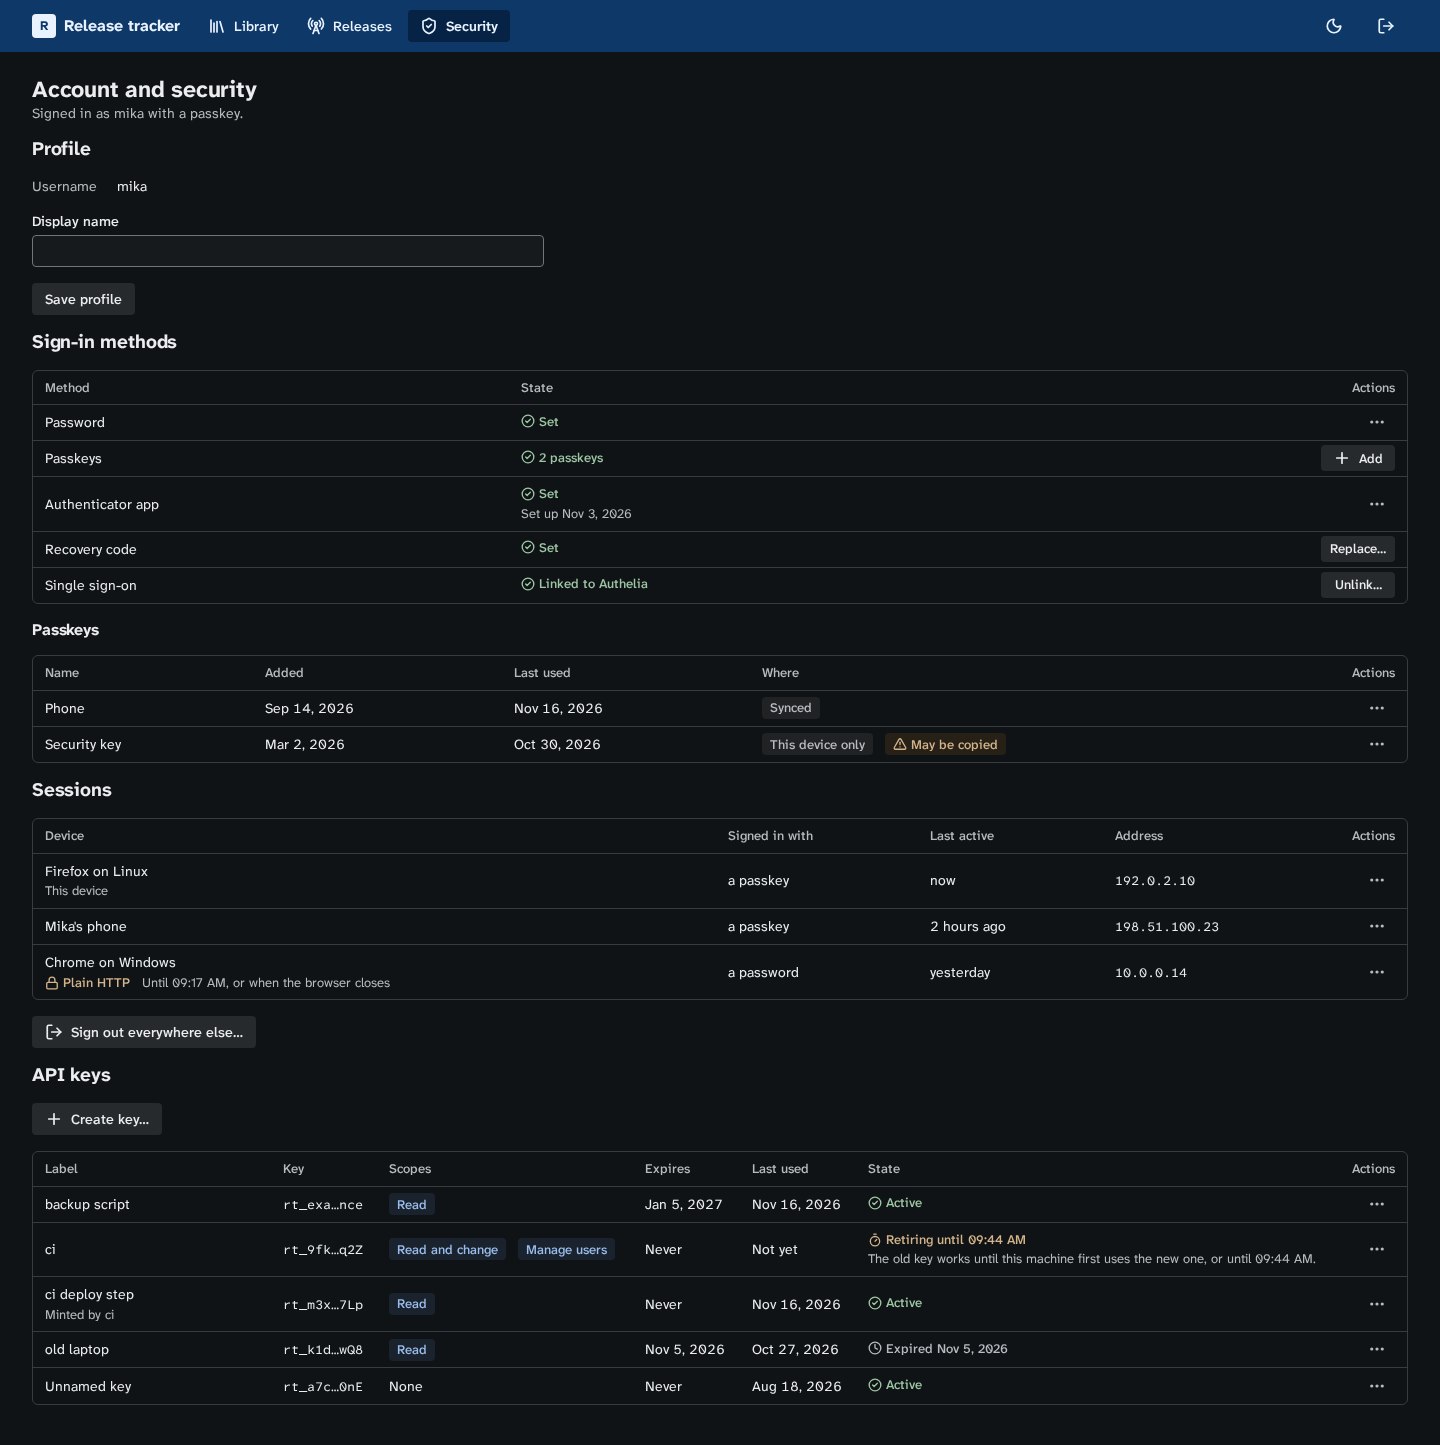
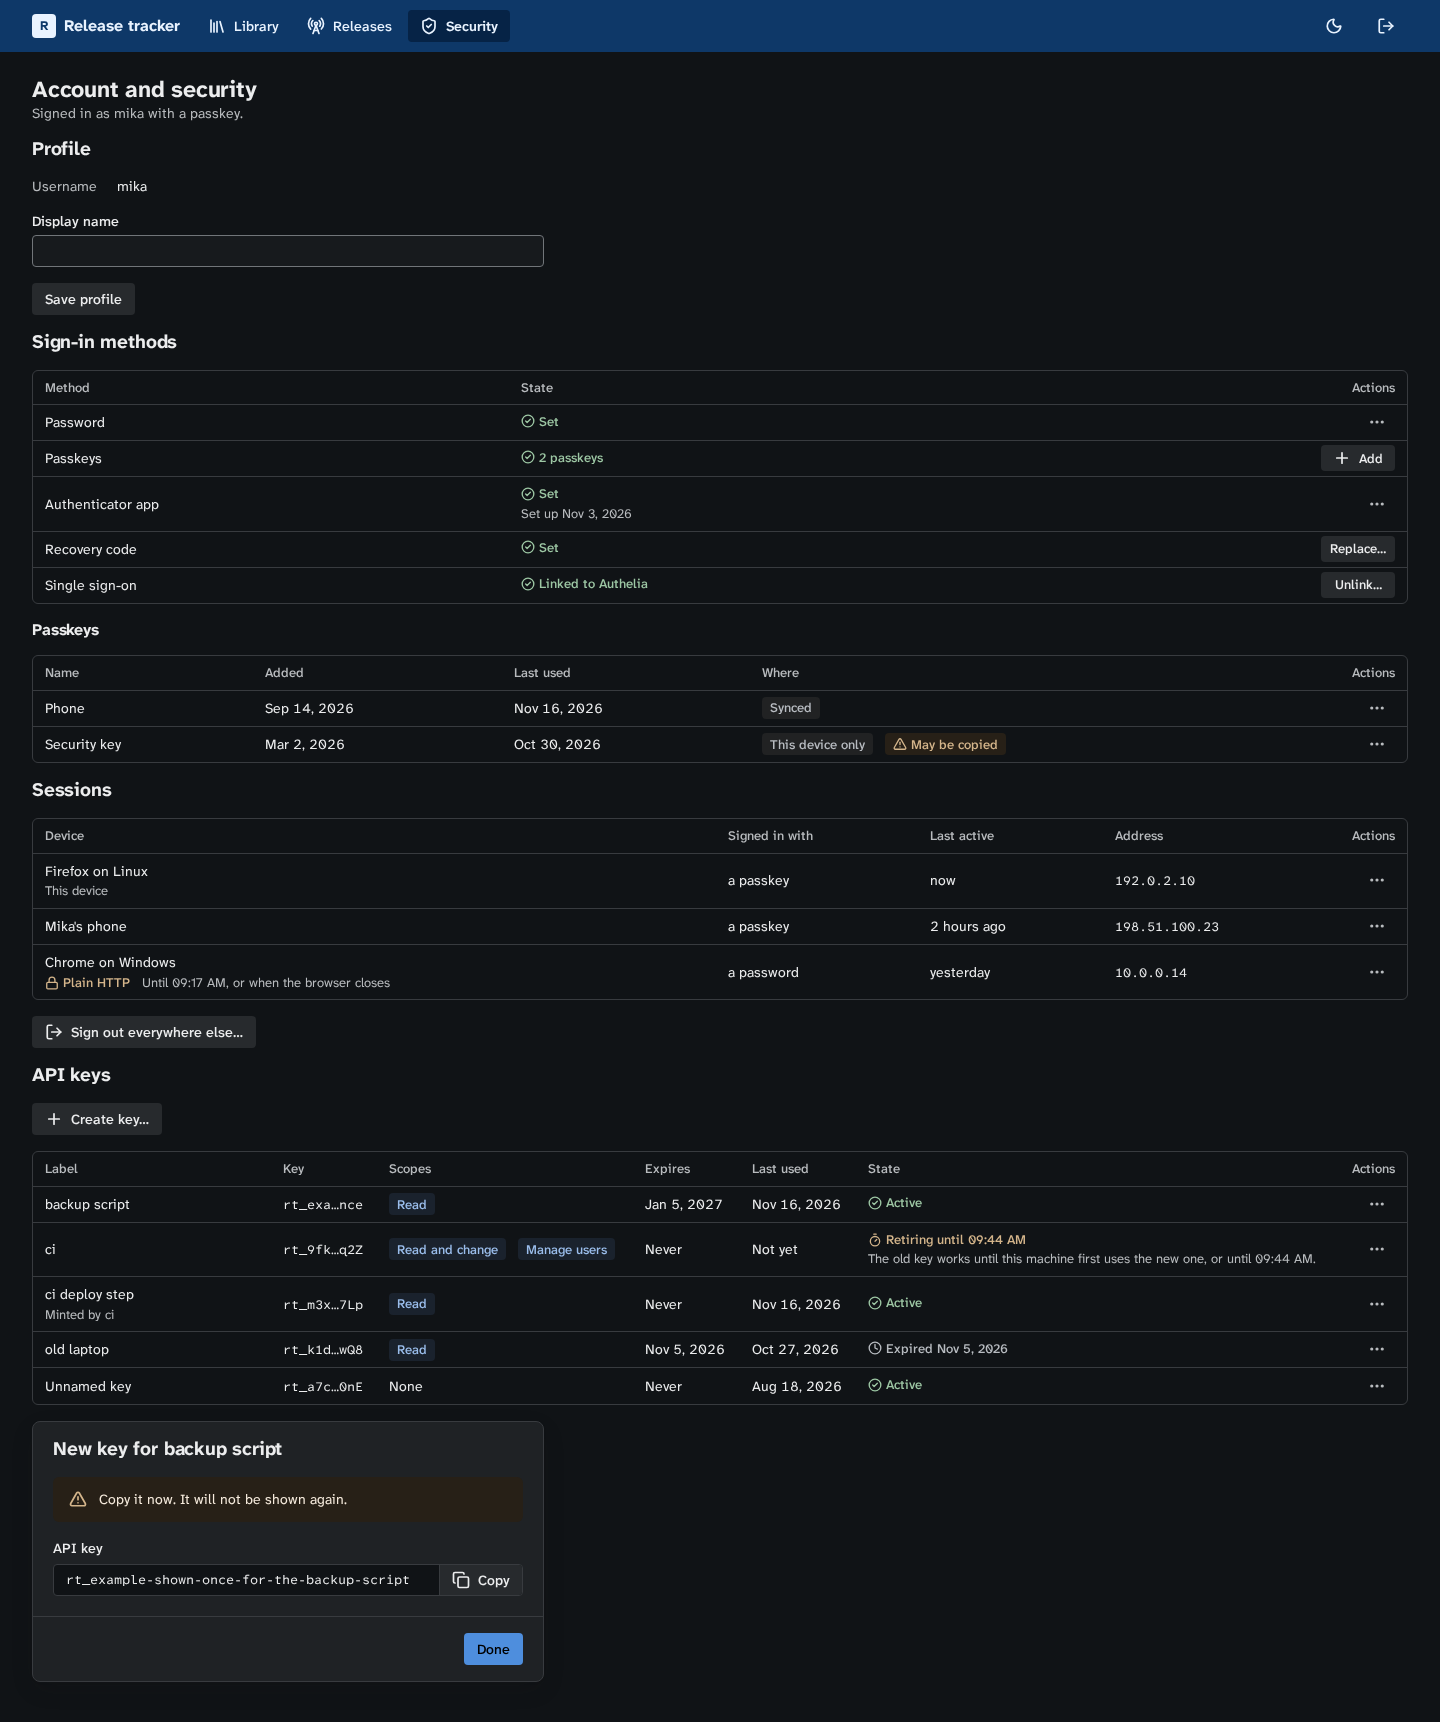
fix(account): let keyboards scroll tables and keep passkeys in sync
Each account table's scrolling panel takes focus and is named by its
heading, so the arrow keys reach every column on a phone. Account and
security tells the passkey provider which passkeys the server accepts
when it loads and the new display name after a save; a passkey rename
sends nothing. The inline rename ignores an input method's own Enter
and Escape, WebKit's late compositionend included. The security
specimen shows the new key's dialog again, its code focusable. The
gallery prefixes each card's heading to its screen's region and pager
names, as the page holds many copies of one screen.

Checks: origin/dev 1c83225 merged first (system-screens.json taken
from dev, regenerated). vitest src/screens/account, src/media/qr,
src/system, side-effects and gallery in chromium, firefox and webkit
at load average 70 to 85: 2600 passed, 6 failed (load: three click
timeouts, the sRGB scale test at 12.6 s against 5 s, a 60 s gallery
page, the stale screens hash); security, keys, pending and system-css
rerun 294 of 295 (sRGB again, 3.7 s alone); after the last edits
security, sessions, keys, users, log and gallery 561 passed; gallery
node test 41 passed; system-screens and side-effects 136 passed.
typecheck, typecheck:tests, eslint, prettier, stylelint, knip clean;
html-validate docs/system clean; markdownlint clean; comment-audit
PASS. system:screens: system-security-dark changed, sign-in-light put
back (identical pixels). Browser QA and legacy-scan in the run notes.

diff --git a/docs/system/security.html b/docs/system/security.html
@@ -19,7 +19,7 @@
   </head>
   <body>
     <!-- Account and security as mountSecurity draws it: the session line, the profile, the
-         sign-in methods, the passkeys, the sessions and the API keys. -->
+         sign-in methods, the passkeys, the sessions and the API keys, with a new key shown once. -->
     <div class="cp-app">
       <header class="cp-header">
         <a
@@ -174,6 +174,9 @@
                 <div
                   class="cp-panel"
                   data-flush
+                  role="group"
+                  aria-labelledby="sign-in-methods-title"
+                  tabindex="0"
                 >
                   <table
                     class="cp-table"
@@ -428,6 +431,9 @@
                 <div
                   class="cp-panel"
                   data-flush
+                  role="group"
+                  aria-labelledby="passkeys-title"
+                  tabindex="0"
                 >
                   <table
                     class="cp-table"
@@ -601,6 +607,9 @@
                 <div
                   class="cp-panel"
                   data-flush
+                  role="group"
+                  aria-labelledby="sessions-title"
+                  tabindex="0"
                 >
                   <table
                     class="cp-table"
@@ -865,6 +874,9 @@
                 <div
                   class="cp-panel"
                   data-flush
+                  role="group"
+                  aria-labelledby="api-keys-title"
+                  tabindex="0"
                 >
                   <table
                     class="cp-table"
@@ -1274,6 +1286,79 @@
                     </tbody>
                   </table>
                 </div>
+              </div>
+            </div>
+            <!-- The dialog Create key… opens with the new key, drawn in place. -->
+            <div class="dialog-frame">
+              <div
+                class="cp-dialog"
+                role="group"
+                aria-labelledby="new-key-title"
+              >
+                <form method="dialog">
+                  <header>
+                    <h3 id="new-key-title">New key for backup script</h3>
+                  </header>
+                  <div class="cp-dialog-body">
+                    <div class="cp-stack">
+                      <div
+                        class="cp-notice"
+                        data-tone="warning"
+                      >
+                        <span
+                          class="cp-icon"
+                          data-cp-icon="triangle-alert"
+                          aria-hidden="true"
+                        ></span>
+                        <div data-part="body">Copy it now. It will not be shown again.</div>
+                      </div>
+                      <div class="cp-field">
+                        <span
+                          class="cp-label"
+                          id="new-key-label"
+                          >API key</span
+                        >
+                        <div
+                          class="cp-code"
+                          role="group"
+                          aria-labelledby="new-key-label"
+                        >
+                          <code
+                            class="cp-mono"
+                            tabindex="0"
+                            >rt_example-shown-once-for-the-backup-script</code
+                          >
+                          <button
+                            class="cp-button cp-copy"
+                            type="button"
+                          >
+                            <span
+                              class="cp-icon"
+                              data-cp-icon="copy"
+                              aria-hidden="true"
+                            ></span
+                            ><span
+                              class="cp-icon"
+                              data-cp-icon="check"
+                              data-part="done"
+                              aria-hidden="true"
+                            ></span
+                            >Copy
+                          </button>
+                        </div>
+                      </div>
+                    </div>
+                  </div>
+                  <footer>
+                    <button
+                      class="cp-button"
+                      type="submit"
+                      data-variant="primary"
+                    >
+                      Done
+                    </button>
+                  </footer>
+                </form>
               </div>
             </div>
           </section>

diff --git a/src/screens/account/security.test.ts b/src/screens/account/security.test.ts
@@ -172,6 +172,41 @@ describe("mountSecurity: the profile", () => {
     await vi.waitFor(() => {
       expect(input.value).toBe("Mika Laine");
     });
+    // The load's signal, then the new display name for the passkey provider.
+    expect(fake.named("sendSignals")).toHaveLength(2);
+  });
+
+  it("tells the passkey provider the accepted passkeys when it loads", async () => {
+    const { fake, region } = mount();
+    await ready(region);
+    expect(fake.named("sendSignals")).toHaveLength(1);
+  });
+
+  it("lets a keyboard scroll each wide table, its panel named by the table's heading", async () => {
+    const { region } = mount();
+    await ready(region);
+    const panels = [...region.querySelectorAll<HTMLElement>(".cp-panel[data-flush]")];
+    expect(panels.length).toBeGreaterThanOrEqual(3);
+    for (const p of panels) {
+      expect(p.tabIndex).toBe(0);
+      expect(p.getAttribute("role")).toBe("group");
+      const by = p.getAttribute("aria-labelledby") ?? "";
+      expect(document.getElementById(by)?.tagName).toMatch(/^H[2-4]$/);
+      expect(p.querySelector("table")?.getAttribute("aria-labelledby")).toBe(by);
+    }
+  });
+
+  it("sends no signal from a browser without WebAuthn", async () => {
+    const fake = new Fake().answer("passkeySupport", { webauthn: false, conditional: false });
+    const { region } = mount(fake);
+    await ready(region);
+    await userEvent.fill(field(region, "display_name"), "Mika");
+    await userEvent.click(button(region, "Save profile"));
+    await vi.waitFor(() => {
+      expect(fake.named("updateProfile")).toHaveLength(1);
+    });
+    await new Promise((resolve) => setTimeout(resolve, 50));
+    expect(fake.named("sendSignals")).toHaveLength(0);
   });
 
   it("puts a refused display name on its field", async () => {
@@ -457,9 +492,27 @@ describe("mountSecurity: passkeys", () => {
       expect(fake.named("renamePasskey")[0]?.args).toEqual([7, { name: "Laptop" }]);
     });
     expect(ran).toContain("auth.passkey_rename");
-    await vi.waitFor(() => {
-      expect(fake.named("sendSignals")).toHaveLength(1);
-    });
+    // A passkey's name lives only on the server: the load's signal is the one sent.
+    expect(fake.named("sendSignals")).toHaveLength(1);
+  });
+
+  it("keeps the edit while an input method composes, Enter and Escape alike", async () => {
+    const { fake, region } = mount();
+    await ready(region);
+    await press(passkeyRows(region)[0] as HTMLElement, "Rename…");
+    const input = region.querySelector("tbody input.cp-input") as HTMLInputElement;
+    await userEvent.fill(input, "Laptop");
+    for (const key of ["Enter", "Escape"]) {
+      input.dispatchEvent(
+        new KeyboardEvent("keydown", { key, isComposing: true, bubbles: true, cancelable: true }),
+      );
+      // WebKit's order: the composition ends, then its confirming key.
+      input.dispatchEvent(new CompositionEvent("compositionend", { data: "ラ" }));
+      input.dispatchEvent(new KeyboardEvent("keydown", { key, bubbles: true, cancelable: true }));
+    }
+    await new Promise((resolve) => setTimeout(resolve, 50));
+    expect(region.querySelector("tbody input.cp-input")).toBe(input);
+    expect(fake.named("renamePasskey")).toHaveLength(0);
   });
 
   it("removes one after a danger question, and tells the password manager", async () => {
@@ -474,7 +527,7 @@ describe("mountSecurity: passkeys", () => {
       expect(noticeOf(region)).toBe("Phone removed.");
     });
     expect(fake.named("removePasskey")[0]?.args).toEqual([7]);
-    expect(fake.named("sendSignals")).toHaveLength(1);
+    expect(fake.named("sendSignals")).toHaveLength(2);
   });
 
   it("offers no Remove on a passkey the server would refuse", async () => {

diff --git a/gallery/wire/account.ts b/gallery/wire/account.ts
@@ -2384,3 +2384,41 @@ for (const form of document.querySelectorAll<HTMLFormElement>("[data-second-fact
     rule.focus();
   });
 }
+
+// Each card mounts its own copy of a screen, so the page holds many regions
+// named "Sign in" or "API keys" and many log pagers; the card's own heading
+// leads each name, as a page with one screen never needs.
+let cardNames = 0;
+function nameByCard(section: Element): void {
+  const card = section.closest(".card");
+  const own = card?.querySelector(":scope > h2");
+  const by = section.getAttribute("aria-labelledby");
+  if (own === null || own === undefined || by === null) {
+    return;
+  }
+  if (own.id === "") {
+    cardNames += 1;
+    own.id = `account-card-${String(cardNames)}`;
+  }
+  if (!by.split(" ").includes(own.id)) {
+    section.setAttribute("aria-labelledby", `${own.id} ${by}`);
+  }
+}
+const named = (): void => {
+  for (const section of document.querySelectorAll(".card section[aria-labelledby]")) {
+    nameByCard(section);
+  }
+  for (const nav of document.querySelectorAll(".card nav[aria-label]")) {
+    const card = nav.closest(".card")?.querySelector(":scope > h2")?.textContent ?? "";
+    const label = nav.getAttribute("aria-label") ?? "";
+    if (card !== "" && !label.startsWith(`${card}: `)) {
+      nav.setAttribute("aria-label", `${card}: ${label}`);
+    }
+  }
+};
+named();
+new MutationObserver(named).observe(document.body, {
+  subtree: true,
+  childList: true,
+  attributeFilter: ["aria-labelledby", "aria-label"],
+});

diff --git a/gallery/pages/account.html b/gallery/pages/account.html
@@ -480,7 +480,7 @@
           <div data-qr-demo="otpauth://totp/Release%20tracker:mika?secret=JBSWY3DPEHPK3PXPJBSWY3DPEHPK3PXP&amp;issuer=Release%20tracker"></div>
           <div class="cp-field">
             <span class="cp-label" id="qr-key-label">Or type this key</span>
-            <div class="cp-code" role="group" aria-labelledby="qr-key-label"><code class="cp-mono">JBSW Y3DP EHPK 3PXP JBSW Y3DP EHPK 3PXP</code><button class="cp-button cp-copy" type="button"><span class="cp-icon" data-cp-icon="copy" aria-hidden="true"></span><span class="cp-icon" data-cp-icon="check" data-part="done" aria-hidden="true"></span>Copy</button></div>
+            <div class="cp-code" role="group" aria-labelledby="qr-key-label"><code class="cp-mono" tabindex="0">JBSW Y3DP EHPK 3PXP JBSW Y3DP EHPK 3PXP</code><button class="cp-button cp-copy" type="button"><span class="cp-icon" data-cp-icon="copy" aria-hidden="true"></span><span class="cp-icon" data-cp-icon="check" data-part="done" aria-hidden="true"></span>Copy</button></div>
           </div>
         </div>
         <footer>A version 6 code at level M, dark on light in both themes and under forced colours, hidden from assistive technology since the key beside it says the same.</footer>

diff --git a/src/screens/account/rename.ts b/src/screens/account/rename.ts
@@ -60,7 +60,18 @@ export function renameInPlace(spec: RenameSpec): void {
   input.addEventListener("input", () => {
     clearError(input);
   });
+  // An IME's own Enter and Escape confirm or drop its candidate. WebKit can
+  // deliver compositionend before that keydown, with isComposing already
+  // false, so a keydown within 50 ms of it, either side, is the IME's too:
+  // https://bugs.webkit.org/show_bug.cgi?id=165004
+  let composedAt = Number.NEGATIVE_INFINITY;
+  input.addEventListener("compositionend", (e) => {
+    composedAt = e.timeStamp;
+  });
   input.addEventListener("keydown", (e) => {
+    if (e.isComposing || Math.abs(e.timeStamp - composedAt) < 50) {
+      return;
+    }
     if (e.key === "Escape") {
       e.preventDefault();
       e.stopPropagation();
@@ -69,7 +80,7 @@ export function renameInPlace(spec: RenameSpec): void {
       }
       return;
     }
-    if (e.key !== "Enter" || saving || e.isComposing) {
+    if (e.key !== "Enter" || saving) {
       return;
     }
     e.preventDefault();

diff --git a/src/screens/account/dom.ts b/src/screens/account/dom.ts
@@ -218,13 +218,18 @@ export interface Column {
 }
 
 /** A flush `.cp-panel` holding a `.cp-table` named by `labelledBy`, and
- *  its body. */
+ *  its body. The panel scrolls a wide table sideways, so it takes focus
+ *  for the arrow keys; a group, since its section is the region of that
+ *  name already. */
 export function table(
   labelledBy: string,
   columns: readonly Column[],
 ): { readonly root: HTMLElement; readonly body: HTMLTableSectionElement } {
   const root = el("div", "cp-panel");
   root.dataset["flush"] = "";
+  root.setAttribute("role", "group");
+  root.setAttribute("aria-labelledby", labelledBy);
+  root.tabIndex = 0;
   const t = el("table", "cp-table");
   t.setAttribute("aria-labelledby", labelledBy);
   const row = el("tr");

diff --git a/src/screens/account/profile.ts b/src/screens/account/profile.ts
@@ -70,6 +70,9 @@ export function drawProfile<C extends SecurityClient>(
         const saved = answer.result.data.user.display_name ?? value;
         name.input.value = saved;
         name.input.defaultValue = saved;
+        if (ctx.has("passkeys") && ctx.webauthn) {
+          void ctx.access.sendSignals(client);
+        }
         return;
       }
       ctx.settle(answer, notices, (r) => {

diff --git a/src/screens/account/methods.ts b/src/screens/account/methods.ts
@@ -760,7 +760,6 @@ export function drawMethods<C extends SecurityClient>(
           return a.words;
         }
         if (a.result.ok) {
-          void access.sendSignals(client);
           return undefined;
         }
         return nameRefused(a.result, w) ?? (ctx.settle(a, notices), false);

diff --git a/docs/system/specimen.css b/docs/system/specimen.css
@@ -99,3 +99,13 @@
   opacity: 1;
   translate: none;
 }
+
+/* A dialog drawn in place, without opening it, for the reference only. */
+.dialog-frame > .cp-dialog {
+  inline-size: min(32rem, 100%);
+  max-inline-size: 100%;
+  margin: 0;
+  opacity: 1;
+  scale: none;
+  translate: none;
+}

diff --git a/src/screens/account/security.ts b/src/screens/account/security.ts
@@ -402,6 +402,9 @@ export function mountSecurity<C extends SecurityClient>(
       }
       me = got.data;
       passkeys = keys;
+      if (has("passkeys") && support.webauthn) {
+        void access.sendSignals(client);
+      }
       ctx = {
         client,
         access,

diff --git a/docs/design-account.md b/docs/design-account.md
@@ -165,7 +165,7 @@ An `auth_recent_auth_required` with reason `reenable_needs_other_method` opens n
 
 The header reaches it through the account button, `.cp-account`, a menu button whose menu says who is signed in, links to this page as "Account and security" and ends with "Sign out".
 
-The page says who is signed in, "Signed in as mika with a passkey.", then has one section each for the profile, the sign-in methods, the sessions and the API keys, in that order, and the security log for an admin. Inside an app's own settings part the sections are `<h3>` under the part's `<h2>`. Each section saves on its own. The methods, passkeys, sessions and keys are `.cp-table`s, since they compare values down columns. A row with one action shows it as a small button with a short word, "Change…" named "Change password…". A row with more holds them in a ⋯ menu, as [row actions](design-patterns.md#tables) asks.
+The page says who is signed in, "Signed in as mika with a passkey.", then has one section each for the profile, the sign-in methods, the sessions and the API keys, in that order, and the security log for an admin. Inside an app's own settings part the sections are `<h3>` under the part's `<h2>`. Each section saves on its own. The methods, passkeys, sessions and keys are `.cp-table`s, since they compare values down columns. Each table sits in a flush `.cp-panel` that scrolls it sideways on a phone; the panel is a group named by the table's heading, with `tabindex="0"`, so the arrow keys reach every column. A row with one action shows it as a small button with a short word, "Change…" named "Change password…". A row with more holds them in a ⋯ menu, as [row actions](design-patterns.md#tables) asks.
 
 ![Account and security in the dark theme: who is signed in, the profile, the sign-in methods with their states, the passkeys with one that may be copied, the sessions with one over plain HTTP, and the API keys with one retiring after a rotation](images/system-security-dark.png)
 
@@ -193,7 +193,7 @@ Where the app manages sign-in through single sign-on for this person (`MeRespons
 | `auth_method_not_locked` | no words, and the section refreshes |
 | `auth_not_found` | no words, and the list refreshes without the item |
 
-`registerPasskey` tells the person's password manager about a new passkey. After a rename or a removal, call `sendSignals` so it follows.
+`registerPasskey` tells the person's password manager about a new passkey. The screen calls `sendSignals` when it loads, after a removal and after a new display name, so the password manager drops a passkey the server no longer accepts and shows the current name. A passkey's own name lives only on the server, so a rename sends nothing.
 
 **Sessions.** This device first, marked "This device", then the others by last activity. Its columns are the label or else the browser, such as "Firefox on Linux", the sign-in method, the last activity as a `<time>`, and the address. Row actions are "Rename…" and "Sign out". The section's action is "Sign out everywhere else…", and its confirmation names the count, such as "Sign out 3 other sessions".
 
